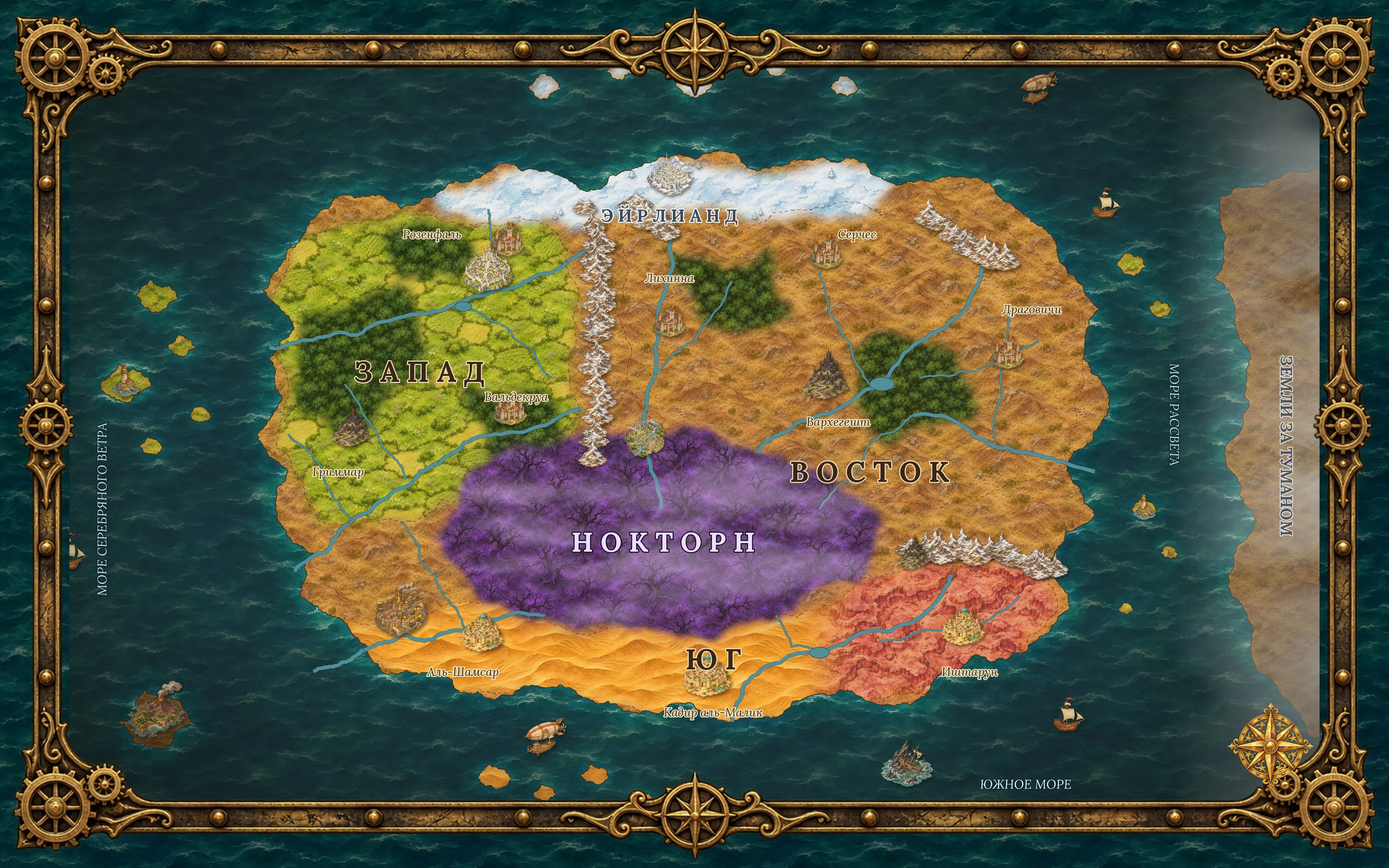
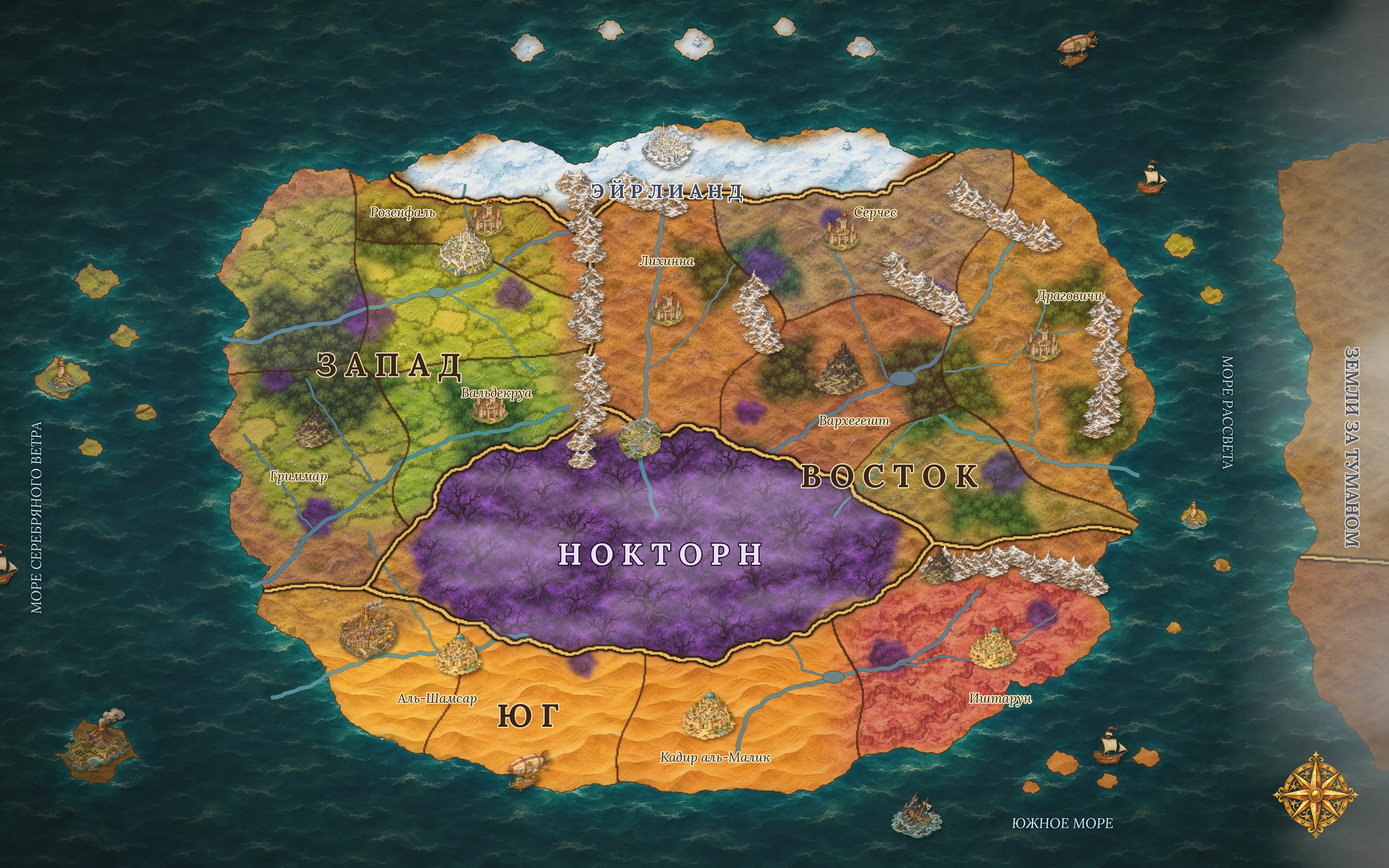
Карта: рамка по краю окна, отголоски Нокторна, больше Юга, лесов и гор на Востоке, явные границы владений
Claude-Session: https://claude.ai/code/session_01LxJh9mEmZSXRc61koe8BVg

diff --git a/data.js b/data.js
@@ -1086,11 +1086,11 @@ M.classScene = { fighter: 'assets/classes/scene-fighter.webp', mage: 'assets/cla
 
 /* ---------- Карта Лимна: одна карта, регионы приближаются по нажатию (координаты в пикселях схемы 1600×1000) ---------- */
 M.worldMap = {
-  img: 'assets/maps/limn.webp?v=3', zones: 'assets/maps/limn-zones.svg?v=2', w: 2222.2, h: 1388.9, ox: 311.1, oy: 194.4,
+  img: 'assets/maps/limn.webp?v=6', zones: 'assets/maps/limn-zones.svg?v=4', w: 2000, h: 1250, ox: 200, oy: 125,
   regions: {
     west: { name: 'Земли Запада', box: [110, 130, 640, 660], lead: 'Богатые и развитые земли Короны. Величественные города, соборы Троединства, рыцарские ордена и старые аристократические дома.', houses: 'Гриммар · Вальдекруа · Розенфаль', feat: 'Рыцарские ордена, столица Короны, развитая торговля, Инквизиция Коллегии.' },
     east: { name: 'Земли Востока', box: [660, 130, 1460, 720], lead: 'Мрачные земли пограничья рядом с Проклятыми Землями Нокторна. Суровые крепости, охотники, культ силы и постоянная борьба за выживание.', houses: 'Вархегешт · Драгович · Серчес', feat: 'Пограничные крепости, охота на чудовищ, добыча редких ресурсов.' },
-    south: { name: 'Земли Юга', box: [180, 680, 1420, 970], lead: 'Пылающие пустыни и древние города караванов. Южные народы поклоняются солнцу, чтут древние традиции и скрывают множество тайн Последних Дней.', houses: 'Аль-Шамсар · Кадир аль-Малик · Иштарун', feat: 'Караваны, культы солнца, пустынные крепости и древние ритуалы.' },
+    south: { name: 'Земли Юга', box: [180, 680, 1420, 1020], lead: 'Пылающие пустыни и древние города караванов. Южные народы поклоняются солнцу, чтут древние традиции и скрывают множество тайн Последних Дней.', houses: 'Аль-Шамсар · Кадир аль-Малик · Иштарун', feat: 'Караваны, культы солнца, пустынные крепости и древние ритуалы.' },
     noct: { name: 'Нокторн', box: [380, 480, 1110, 830], lead: 'Бывший Великий Лес — мёртвый туманный лес, где царит вечная ночь и живут страшные создания. Границы миров здесь особенно тонки. После падения Риверсайда Нокторн расширяется.', houses: '—', feat: 'Аномалии, твари Гнили, пятна проклятия по всему миру.' },
     eir: { name: 'Эйрлианд', box: [360, 40, 1140, 190], lead: 'Зимняя страна на краю мира, «Земля Вечного Холода и Света». Здесь доживают век остатки величия истинных эльфов.', houses: 'истинные эльфы', feat: 'Последний Белый Град — Аэль-Калдарион.' }
   },
@@ -1109,13 +1109,13 @@ M.worldMap = {
     { x: 1300, y: 380, n: 'Земли Драговичей', k: 'Дом Драгович', h: 'Дом Драгович', r: 'east' },
     { x: 1150, y: 700, n: 'Крепость Вархегештов', k: 'Перевал Плакальщицы', t: 'Пограничная крепость над перевалом на Юг.', r: 'east' },
     { x: 460, y: 830, n: 'Аль-Шамсар', k: 'Дом Аль-Шамсар', h: 'Дом Аль-Шамсар', r: 'south' },
-    { x: 820, y: 900, n: 'Кадир аль-Малик', k: 'Дом Кадир аль-Малик', h: 'Дом Кадир аль-Малик', r: 'south' },
+    { x: 820, y: 920, n: 'Кадир аль-Малик', k: 'Дом Кадир аль-Малик', h: 'Дом Кадир аль-Малик', r: 'south' },
     { x: 1230, y: 820, n: 'Иштарун', k: 'Дом Иштарун', h: 'Дом Иштарун', r: 'south' },
     { x: -60, y: 400, n: 'Серебряные острова', k: 'Море Серебряного Ветра', t: 'Острова рыбаков и контрабандистов у берегов Запада. На скалах — маяки Короны, в бухтах — то, что Короне лучше не видеть.' },
     { x: -60, y: 990, n: 'Пепельный остров', k: 'Вулкан', t: 'Дымящий вулкан посреди моря. Моряки говорят, что в его жерле открыт разлом в Пирракс, и обходят остров стороной: оттуда приходят одержимые.' },
     { x: 1520, y: 480, n: 'Острова Рассвета', k: 'Море Рассвета', t: 'Торговые гавани у восточных берегов. Отсюда уходят корабли смельчаков к Землям за Туманом.' },
-    { x: 600, y: 1050, n: 'Штормовой архипелаг', k: 'Южное море', t: 'Пиратские гавани Юга, где сталкиваются ветра трёх морей. Здесь продают всё — и всех.' },
-    { x: 1140, y: 1040, n: 'Чёрные Зубья', k: 'Рифы', t: 'Гряда острых рифов — кладбище кораблей. В тихую погоду над водой видны мачты.' },
+    { x: 1370, y: 985, n: 'Штормовой архипелаг', k: 'Южное море', t: 'Пиратские гавани Юга, где сталкиваются ветра трёх морей. Здесь продают всё — и всех.' },
+    { x: 1120, y: 1062, n: 'Чёрные Зубья', k: 'Рифы', t: 'Гряда острых рифов — кладбище кораблей. В тихую погоду над водой видны мачты.' },
     { x: 800, y: -60, n: 'Ледяной венец', k: 'Северные льды', t: 'Ледяные острова у берегов Эйрлианда. Говорят, на них стоят старые эльфийские маяки, которые до сих пор светят.' },
     { x: 1750, y: 520, n: 'Земли за Туманом', k: 'Неизведанный материк', t: 'Край чужого материка за вечным туманом. Корабли, ушедшие туда, возвращаются редко — и никто не рассказывает одно и то же.' },
     { x: 760, y: 680, n: 'Сердце Нокторна', k: 'Бывший Великий Лес', t: 'Здесь когда-то жили Хранители Природы. Сюда Мор\'Аль принёс семя смерти из Тир\'Нарака.', r: 'noct' }

diff --git a/style.css b/style.css
@@ -2664,3 +2664,12 @@ body.map-mode #view { padding: 0; }
 @media (max-width: 800px) { .map-full .map-info { position: absolute; left: 12px; right: 12px; top: auto; bottom: 12px; width: auto; max-height: 40%; } .map-hint { display: none; } }
 .map-layer { will-change: auto; }
 .map-layer > img { image-rendering: auto; }
+/* рамка поверх окна карты — стоит на месте, карта двигается под ней */
+.map-view::after { content: ''; position: absolute; inset: 0; z-index: 3; pointer-events: none; border-style: solid; border-width: 70px 70px; border-image: url("assets/maps/frame.webp") 150 / 70px stretch; }
+.map-full .map-ctrl { top: 86px; left: 86px; }
+.map-full .map-info { top: 86px; right: 86px; max-height: calc(100% - 172px); }
+.map-full .map-hint { bottom: 82px; }
+.map-view { background: #0b1a22; }
+@media (max-width: 800px) { .map-view::after { border-width: 36px; border-image-width: 36px; } .map-full .map-ctrl { top: 46px; left: 46px; } .map-full .map-info { left: 46px; right: 46px; bottom: 46px; } }
+
+body.map-mode .map-full { position: fixed; left: 0; right: 0; bottom: 0; top: 66px; height: auto; z-index: 1; }

diff --git a/index.html b/index.html
@@ -19,7 +19,7 @@
 <link rel="preconnect" href="https://fonts.googleapis.com">
 <link rel="preconnect" href="https://fonts.gstatic.com" crossorigin>
 <link rel="stylesheet" href="https://fonts.googleapis.com/css2?family=Montserrat:ital,wght@0,400;0,500;0,600;0,700;0,800;1,400&display=swap">
-<link rel="stylesheet" href="style.css?v=87">
+<link rel="stylesheet" href="style.css?v=89">
 </head>
 <body>
 
@@ -81,12 +81,12 @@
   </div>
 </div>
 
-<script src="data.js?v=87"></script>
-<script src="rules-data.js?v=87"></script>
-<script src="tools.js?v=87"></script>
-<script src="infernal.js?v=87"></script>
-<script src="config.js?v=87"></script>
-<script src="cabinet.js?v=87"></script>
-<script src="app.js?v=87"></script>
+<script src="data.js?v=89"></script>
+<script src="rules-data.js?v=89"></script>
+<script src="tools.js?v=89"></script>
+<script src="infernal.js?v=89"></script>
+<script src="config.js?v=89"></script>
+<script src="cabinet.js?v=89"></script>
+<script src="app.js?v=89"></script>
 </body>
 </html>
